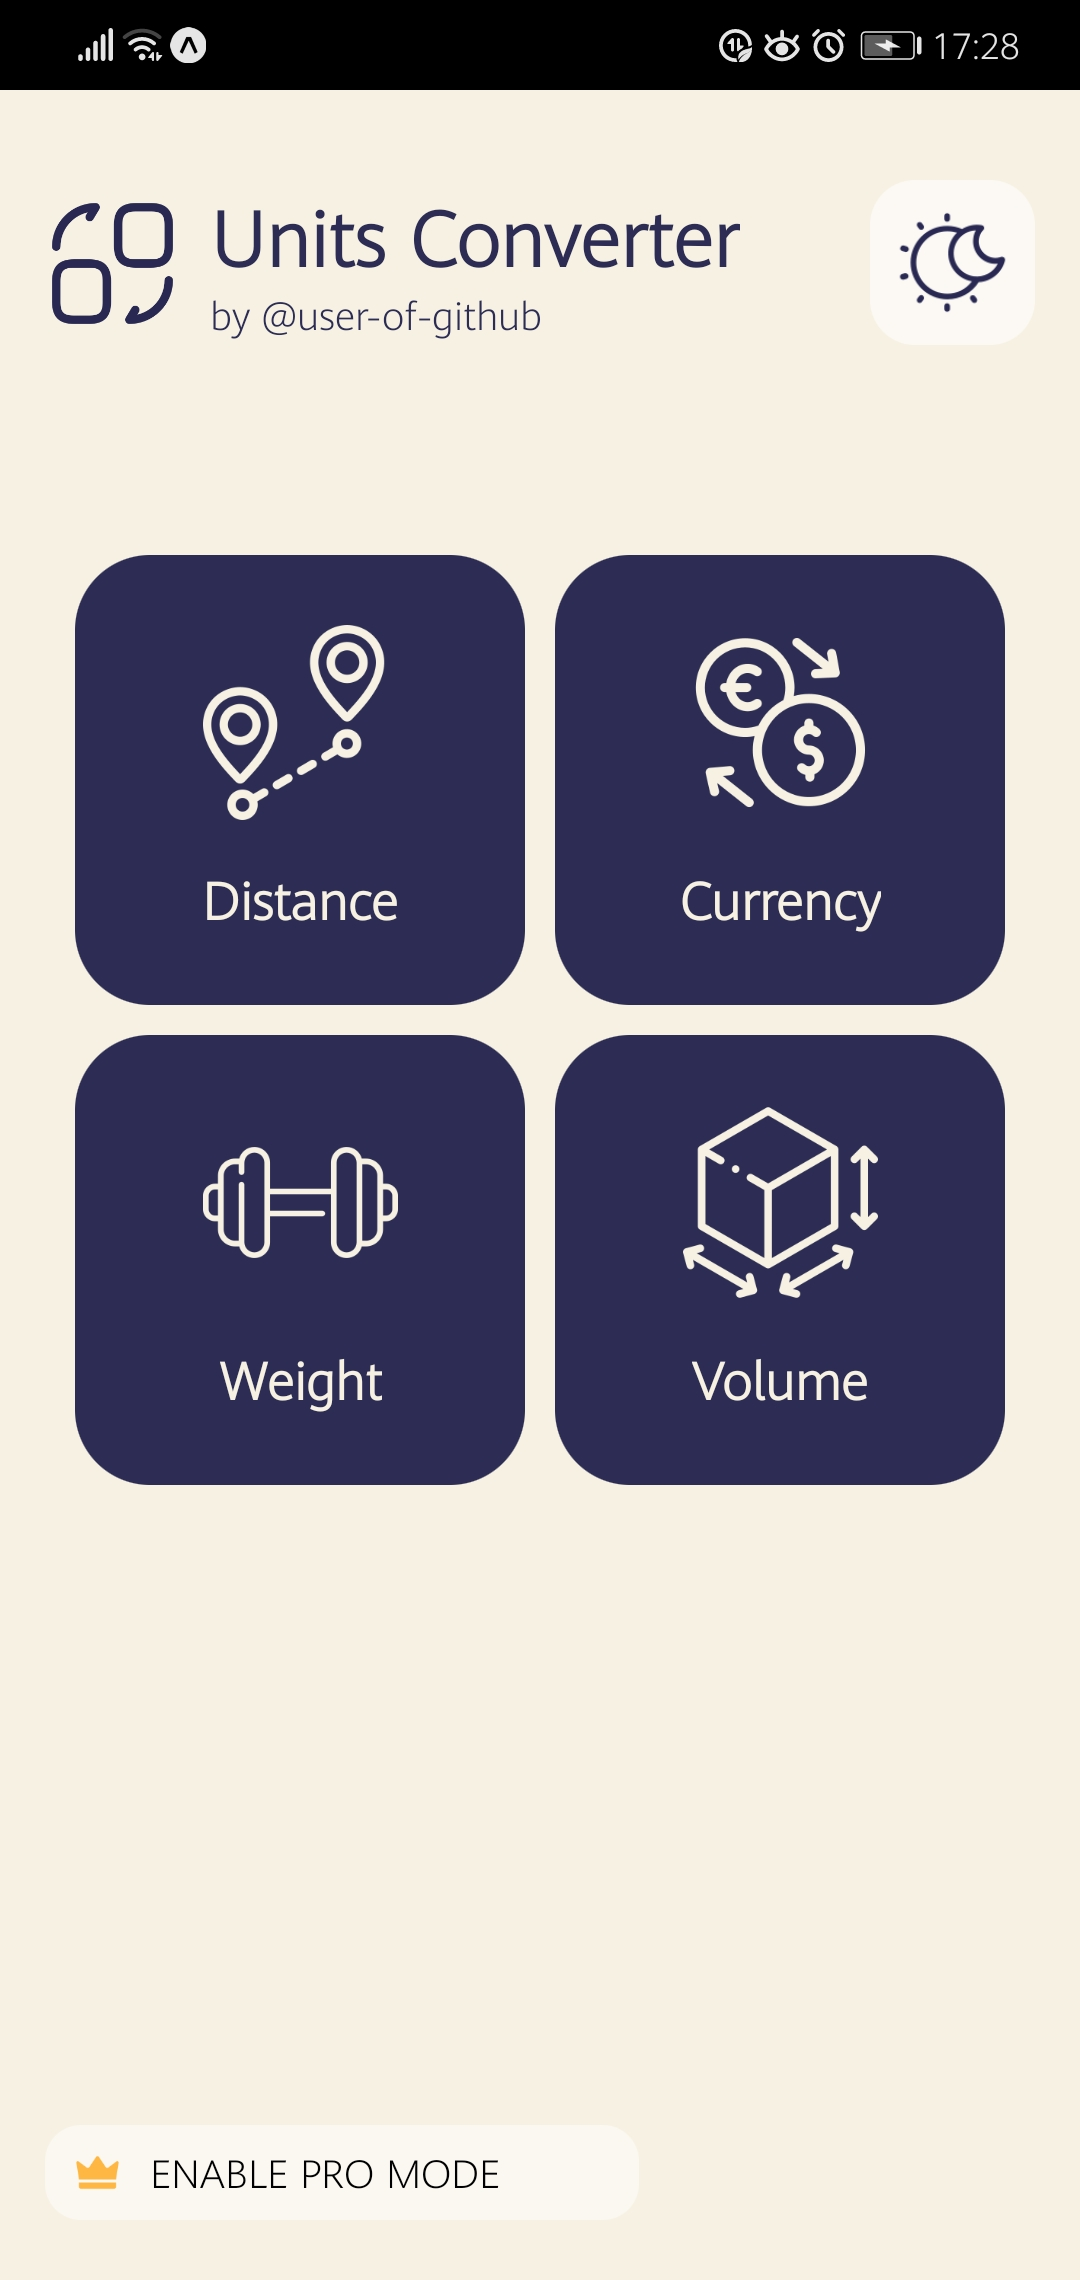
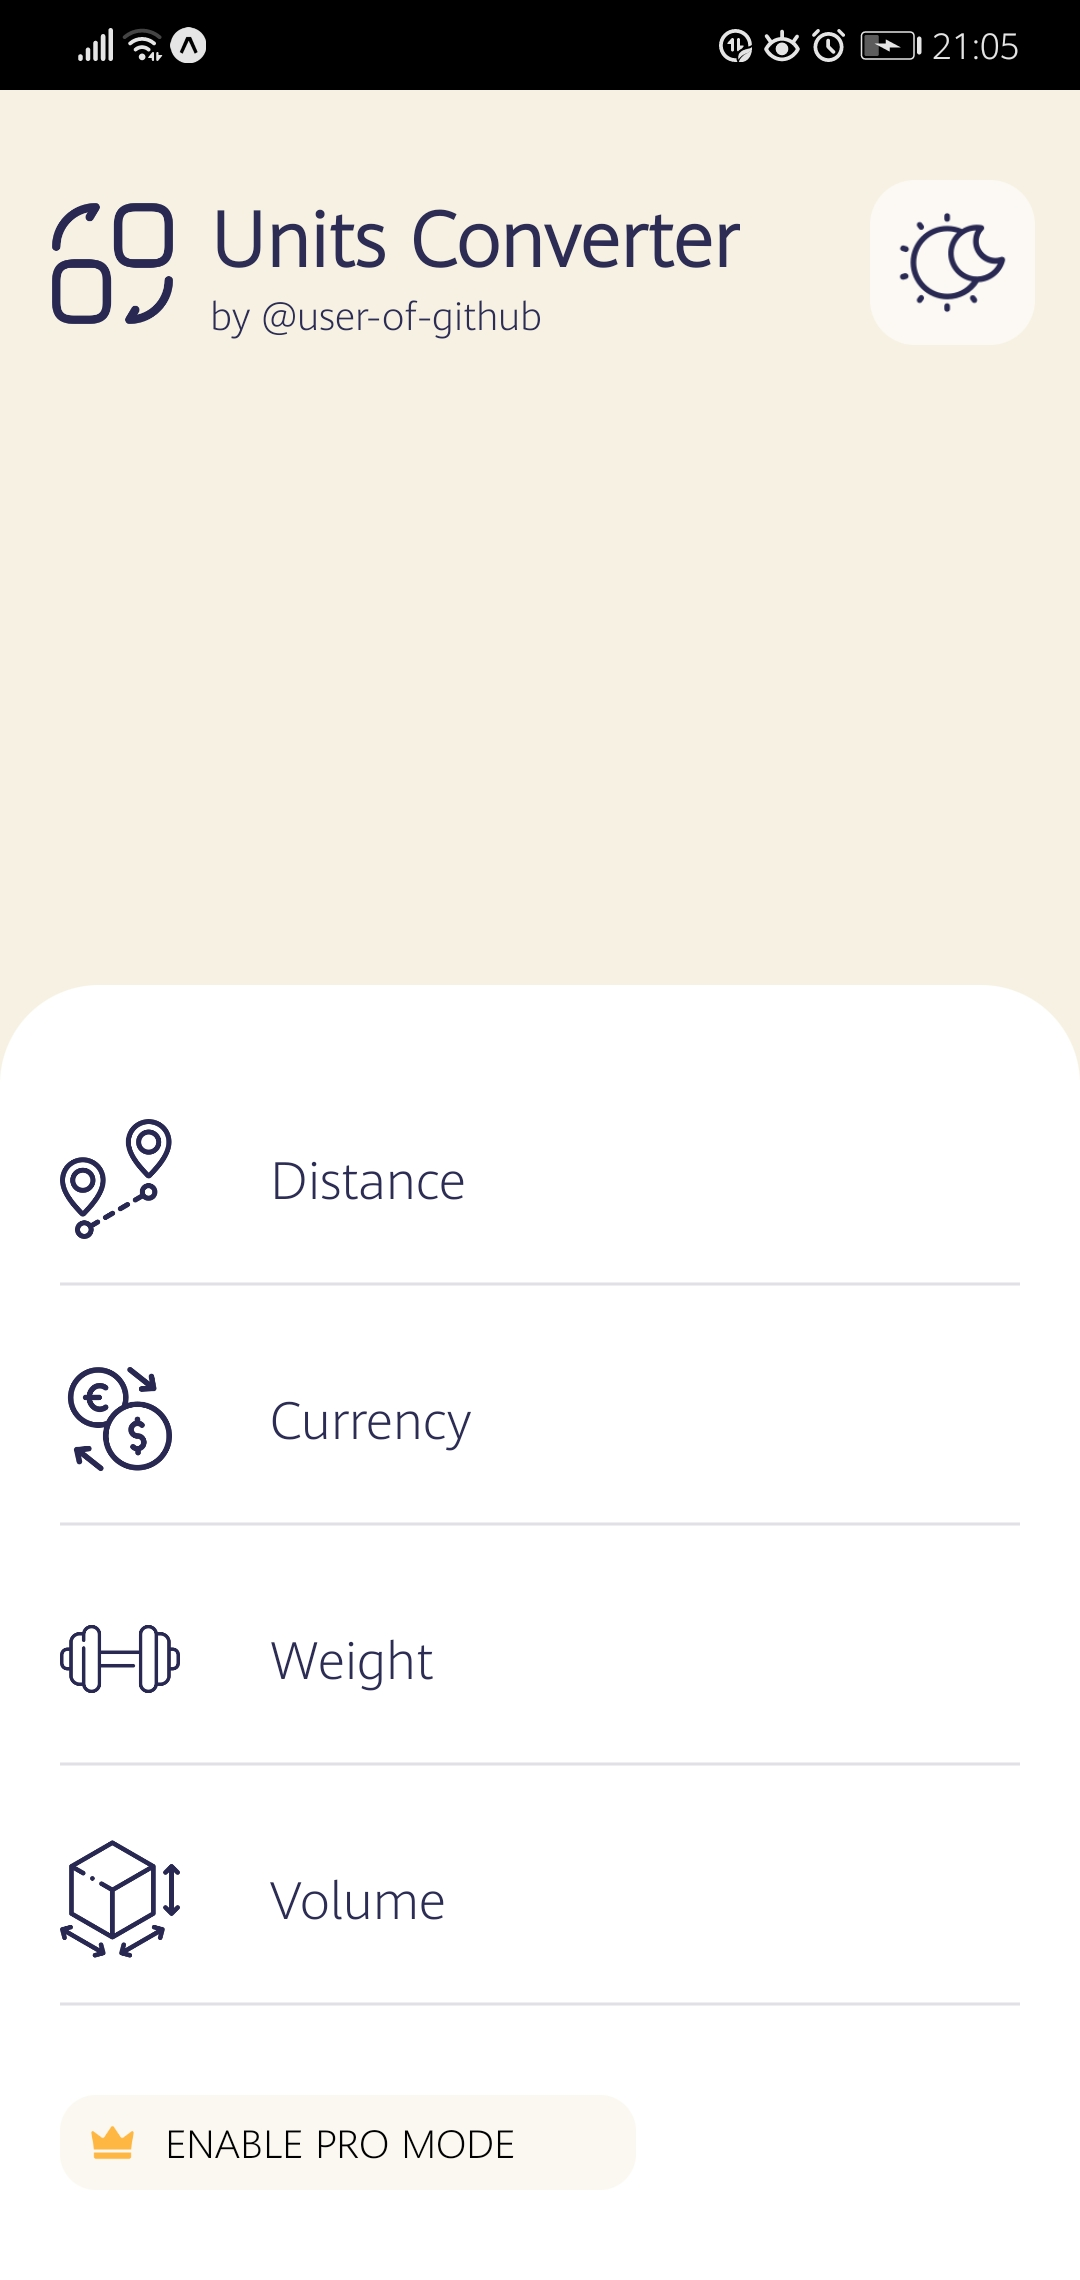
feat: redesign

diff --git a/LR1/Converter/components/menuList/MenuList.tsx b/LR1/Converter/components/menuList/MenuList.tsx
@@ -1,5 +1,5 @@
 import React from 'react'
-import {View} from 'react-native'
+import {FlatList, ListRenderItem, View} from 'react-native'
 
 import {stylesBase} from './styles'
 import {Theme} from '../../types/Theme'
@@ -14,40 +14,48 @@ import WeightLight from '../../assets/weight-light.png'
 import WeightDark from '../../assets/weight-dark.png'
 import VolumeLight from '../../assets/volume-light.png'
 import VolumeDark from '../../assets/volume-dark.png'
+import {PremiumToggler} from '../premiumToggler/PremiumToggler'
 
 
 const MENU_DATA: Array<MenuItem> = [
-    {imageForLight: DistanceLight, imageForDark: DistanceDark, title: 'Distance', screenName: 'DistanceConverter'},
-    {imageForLight: CurrencyLight, imageForDark: CurrencyDark, title: 'Currency', screenName: 'CurrencyConverter'},
-    {imageForLight: WeightLight, imageForDark: WeightDark, title: 'Weight', screenName: 'WeightConverter'},
-    {imageForLight: VolumeLight, imageForDark: VolumeDark, title: 'Volume', screenName: 'VolumeConverter'}
+    {imageForLight: DistanceDark, imageForDark: DistanceLight, title: 'Distance', screenName: 'DistanceConverter'},
+    {imageForLight: CurrencyDark, imageForDark: CurrencyLight, title: 'Currency', screenName: 'CurrencyConverter'},
+    {imageForLight: WeightDark, imageForDark: WeightLight, title: 'Weight', screenName: 'WeightConverter'},
+    {imageForLight: VolumeDark, imageForDark: VolumeLight, title: 'Volume', screenName: 'VolumeConverter'}
 ]
 
 interface MenuListProps {
     theme: Theme
     orientation: Orientation
+    premium: boolean
+    togglePremium: () => void
 }
 
 
 export const MenuList = (props: MenuListProps): JSX.Element => {
-    const containerStyles = [
-        stylesBase.menuContainer,
-        props.orientation === 'portrait' ? stylesBase.menuContainerPortrait : stylesBase.menuContainerLandscape
-    ]
+    const containerStyles = [stylesBase.menuContainer, props.theme === Theme.LIGHT ? stylesBase.menuContainerLight  : stylesBase.menuContainerDark]
+
+    const renderItem: ListRenderItem<MenuItem> = ({ item }) => (
+        <MenuItem theme={props.theme}
+                  menuItem={item}
+                  key={`${item.title}${item.screenName}`}
+                  orientation={props.orientation}
+        />
+    );
 
     return (
         <View style={containerStyles}>
-            <View style={stylesBase.itemsContainer}>
-                {
-                    MENU_DATA.map((menuItem: MenuItem): JSX.Element => (
-                        <MenuItem theme={props.theme}
-                                  menuItem={menuItem}
-                                  key={`${menuItem.title}${menuItem.screenName}`}
-                                  orientation={props.orientation}
-                        />
-                    ))
-                }
-            </View>
+                <FlatList
+                    style={stylesBase.itemsContainer}
+                    data={MENU_DATA}
+                    renderItem={renderItem}
+                    keyExtractor={menuItem => menuItem.title}
+                />
+
+            <PremiumToggler premium={props.premium}
+                            togglePremium={props.togglePremium}
+                            orientation={props.orientation}
+            />
         </View>
     )
 }

diff --git a/LR1/Converter/components/formConverter/FormConverter.tsx b/LR1/Converter/components/formConverter/FormConverter.tsx
@@ -9,6 +9,7 @@ import {FormGroup} from './formGroup/FormGroup'
 
 import Swap from '../../assets/swap.png'
 import {Orientation} from '../../types/Orientation'
+import {createAlert} from '../../utils/createAlert'
 
 
 export interface ConverterRules {
@@ -60,7 +61,11 @@ export const FormConverter = (props: FormConverterProps): JSX.Element => {
 
         if (totalLength < MAX_TOTAL_LENGTH && dotsCount <= 1) {
             const dotIndex: number = newValue.indexOf('.')
-            if (totalLength === MAX_TOTAL_LENGTH) return dotIndex !== newValue.length - 1
+
+            if (totalLength === MAX_TOTAL_LENGTH && dotIndex > 0) {
+                console.log(dotIndex,totalLength - 1, dotIndex !== totalLength - 1)
+                return dotIndex !== newValue.length - 1
+            }
             return true
         }
         else {
@@ -71,8 +76,9 @@ export const FormConverter = (props: FormConverterProps): JSX.Element => {
     const updateValues = (): void => {
         if (currentValue !== '' && currentValue !== '.') {
             const value2raw: number = Number.parseFloat(currentValue) * ratioTo2
-            setValue2(value2raw.toString())
-            actualValue2.current = value2raw.toString()
+            const value2new: number = value2raw < 0.0001 ? 0 : value2raw
+            setValue2(value2new !== 0 ? value2raw.toFixed(4) : '0')
+            actualValue2.current = value2new !== 0 ? value2raw.toFixed(4) : '0'
         } else {
             setValue2('')
             actualValue2.current = ''
@@ -80,7 +86,7 @@ export const FormConverter = (props: FormConverterProps): JSX.Element => {
     }
 
     const keyboardButtonClickHandler = (item): void => {
-        console.log('KEK')
+        //console.log('KEK')
         if (item.type === KeyboardButtonItemType.DIGIT)
             setCurrentValue(value => checkValue(value + item.text) ? value + item.text : value)
         else if (item.type === KeyboardButtonItemType.DOT)
@@ -105,6 +111,8 @@ export const FormConverter = (props: FormConverterProps): JSX.Element => {
         //console.log(value)
         if (!Number.isNaN(Number.parseFloat(value)) && checkValue(value)) {
             setCurrentValue(current => value)
+        } else {
+            createAlert('Invalid value :(')
         }
     }
 

diff --git a/LR1/Converter/components/menuList/menuItem/styles.ts b/LR1/Converter/components/menuList/menuItem/styles.ts
@@ -5,45 +5,42 @@ import {DARK_COLOR, LIGHT_COLOR} from '../../../utils/styleConstants'
 export const stylesBase = StyleSheet.create({
     selectItem: {
         display: 'flex',
-        flexDirection: 'column',
+        flexDirection: 'row',
         alignItems: 'center',
-        justifyContent: 'center',
         textAlign: 'center',
-        padding: 10,
-        borderRadius: 25,
         marginBottom: 10,
-        position: 'relative'
+        position: 'relative',
+        borderBottomStyle: 'solid',
+        borderBottomWidth: 1,
+        width: '100%',
+        // borderColor: 'black',
+        // borderStyle: 'solid',
+        // borderWidth: 1,
+        height: 70
     },
-
-    selectItemPortrait: {
-        width: 150,
-        height: 150,
-    },
-
     selectItemLandscape: {
-        width: 120,
-        height: 120,
+        height: 60,
     },
 
     selectItemIcon: {
-        width: '50%',
-        height: '50%',
+        width: 40,
+        height: 40,
     },
 
     selectItemTitle: {
         fontSize: 20,
-        marginTop: 15,
-        fontWeight: '900'
+        fontWeight: '100',
+        marginLeft: 30
     },
 })
 
 
 export const stylesLightTheme = StyleSheet.create({
-    selectItem: {backgroundColor: DARK_COLOR},
-    selectItemTitle: {color: LIGHT_COLOR}
+    selectItem: {backgroundColor: 'transparent', borderBottomColor: 'rgba(44, 44, 84, 0.15)'},
+    selectItemTitle: {color: DARK_COLOR}
 })
 
 export const stylesDarkTheme = StyleSheet.create({
-    selectItem: {backgroundColor: LIGHT_COLOR},
-    selectItemTitle: {color: DARK_COLOR}
+    selectItem: {backgroundColor: 'transparent', borderBottomColor: 'rgba(247, 241, 227, 0.5)'},
+    selectItemTitle: {color: LIGHT_COLOR}
 })

diff --git a/LR1/Converter/components/menuList/menuItem/MenuItem.tsx b/LR1/Converter/components/menuList/menuItem/MenuItem.tsx
@@ -23,8 +23,8 @@ interface MenuItemProps {
 export const MenuItem = ({theme, menuItem, orientation}: MenuItemProps): JSX.Element => {
     const buttonContainerStyle = [
         stylesBase.selectItem,
-        orientation === 'portrait' ? stylesBase.selectItemPortrait : stylesBase.selectItemLandscape,
-        theme === Theme.LIGHT ? stylesLightTheme.selectItem : stylesDarkTheme.selectItem
+        theme === Theme.LIGHT ? stylesLightTheme.selectItem : stylesDarkTheme.selectItem,
+        orientation === 'landscape' && stylesBase.selectItemLandscape
     ]
 
     const buttonIcon = (menuItem: MenuItem) => theme === Theme.LIGHT ? menuItem.imageForLight : menuItem.imageForDark
@@ -38,9 +38,9 @@ export const MenuItem = ({theme, menuItem, orientation}: MenuItemProps): JSX.Ele
     return (
         <TouchableOpacity style={buttonContainerStyle}
                           key={menuItem.title}
-                          activeOpacity={0.7}
+                          activeOpacity={0.2}
                           onPress={() => {
-                              Vibration.vibrate(40)
+                              Vibration.vibrate(20)
                               navigation.navigate(menuItem.screenName as never)
                           }}
         >

diff --git a/LR1/Converter/components/menuList/styles.ts b/LR1/Converter/components/menuList/styles.ts
@@ -5,24 +5,30 @@ export const stylesBase = StyleSheet.create({
     menuContainer: {
         display: 'flex',
         width: '100%',
-        justifyContent: 'center',
-        alignItems: 'center',
-        /*borderColor: 'black',
-        borderStyle: 'solid',
-        borderWidth: 1,*/
+        justifyContent: 'space-between',
+        // borderColor: 'black',
+        // borderStyle: 'solid',
+        // borderWidth: 1,
+        borderTopLeftRadius: 33,
+        borderTopRightRadius: 33,
+        paddingHorizontal: 20,
+        paddingBottom: 30
     },
-    menuContainerPortrait: {
-        paddingTop: 50,
+    menuContainerLight: {
+        backgroundColor: 'white'
     },
-    menuContainerLandscape: {
-      paddingTop: 10
+    menuContainerDark: {
+        backgroundColor: 'rgba(0, 0, 0, 0.5)'
     },
     itemsContainer: {
         display: 'flex',
-        flexDirection: 'row',
-        flexWrap: 'wrap',
-        justifyContent: 'space-evenly',
-        width: '100%'
+        flexDirection: 'column',
+        width: '100%',
+        // borderColor: 'black',
+        // borderStyle: 'solid',
+        // borderWidth: 1,
+        marginBottom: 20,
+        paddingTop: 30
     }
 })
 

diff --git a/LR1/Converter/components/formConverter/formGroup/FormGroup.tsx b/LR1/Converter/components/formConverter/formGroup/FormGroup.tsx
@@ -7,6 +7,7 @@ import {Theme} from '../../../types/Theme'
 
 import CopyForLight from '../../../assets/copy-dark.png'
 import CopyForDark from '../../../assets/copy-light.png'
+import {createAlert} from '../../../utils/createAlert'
 
 
 interface FormGroupProps {
@@ -25,17 +26,16 @@ const areEqual = (prevProps: FormGroupProps, nextProps: FormGroupProps): boolean
 
 
 export const FormGroup = React.memo((props: FormGroupProps): JSX.Element => {
-    const createAlert = (): void => Alert.alert('', 'Value copied to clipboard')
     const labelStyles = [stylesBase.label, props.theme === Theme.LIGHT ? stylesLight.label : stylesDark.label]
 
     const copyButtonClickHandler = (): void => {
         Vibration.vibrate(40)
 
-        props.value !== '' && Clipboard.setStringAsync(props.value) && createAlert()
+        props.value !== '' && Clipboard.setStringAsync(props.value) && createAlert('Value copied to clipboard')
     }
 
     const longPressHandler = (): void => {
-        Vibration.vibrate(70)
+        Vibration.vibrate(50)
 
         props.pasteHandler && props.pasteHandler()
     }

diff --git a/LR1/Converter/App.tsx b/LR1/Converter/App.tsx
@@ -67,17 +67,17 @@ const stylesBase = StyleSheet.create({
         width: '100%',
         height: '100%',
         display: 'flex',
-        flexDirection: 'column'
+        flexDirection: 'column',
+        justifyContent: 'space-between',
+        // borderColor: 'red',
+        // borderStyle: 'solid',
+        // borderWidth: 10,
     },
     containerPortrait: {
-        paddingHorizontal: 15,
         paddingTop: 30,
-        paddingBottom: 20,
     },
     containerLandscape: {
-        paddingHorizontal: 20,
         paddingTop: 20,
-        paddingBottom: 10,
     }
 })
 

diff --git a/LR1/Converter/screens/homeScreen/HomeScreen.tsx b/LR1/Converter/screens/homeScreen/HomeScreen.tsx
@@ -19,10 +19,6 @@ interface HomeScreenProps {
 
 export const HomeScreen = (props: HomeScreenProps): JSX.Element => (
     <View style={stylesBase.wrapper}>
-        <MenuList theme={props.theme} orientation={props.orientation}/>
-        <PremiumToggler premium={props.premium}
-                        togglePremium={props.togglePremium}
-                        orientation={props.orientation}
-        />
+        <MenuList theme={props.theme} orientation={props.orientation} premium={props.premium} togglePremium={props.togglePremium}/>
     </View>
 )

diff --git a/LR1/Converter/screens/volumeConverterScreen/VolumeConverterScreen.tsx b/LR1/Converter/screens/volumeConverterScreen/VolumeConverterScreen.tsx
@@ -5,7 +5,7 @@ import {ScreenProps} from '../../types/ScreenProps'
 
 
 export const VolumeConverterScreen = (props: ScreenProps): JSX.Element => {
-    const converterRules: ConverterRules = {title1: 'Liter', title2: 'Barrel', ratioTo2: 163.65, ratioTo1: 1 / 163.65}
+    const converterRules: ConverterRules = {title1: 'Gallon', title2: 'Liter', ratioTo2: 3.78541, ratioTo1: 0.264172}
 
     return (
         <FormConverter theme={props.theme}

diff --git a/LR1/Converter/screens/homeScreen/styles.ts b/LR1/Converter/screens/homeScreen/styles.ts
@@ -3,10 +3,13 @@ import {StyleSheet} from 'react-native'
 
 export const stylesBase = StyleSheet.create({
     wrapper: {
-        height: '100%',
+        marginTop: 'auto',
         display: 'flex',
         flexDirection: 'column',
-        justifyContent: 'space-between'
+        justifyContent: 'space-between',
+        // borderColor: 'black',
+        // borderStyle: 'solid',
+        // borderWidth: 1,
     }
 })
 

diff --git a/LR1/Converter/components/premiumToggler/styles.ts b/LR1/Converter/components/premiumToggler/styles.ts
@@ -12,7 +12,8 @@ export const stylesBase = StyleSheet.create({
         // borderWidth: 2,
         // borderStyle: 'solid',
         borderRadius: 12,
-        backgroundColor: 'rgba(255, 255, 255, 0.5)'
+
+        backgroundColor: 'rgba(247, 241, 227, 0.5)'
     },
 
     premiumButtonPortrait: {

diff --git a/LR1/Converter/components/header/styles.ts b/LR1/Converter/components/header/styles.ts
@@ -6,6 +6,7 @@ export const stylesBase = StyleSheet.create({
     container: {
         width: '100%',
         display: 'flex',
+        paddingHorizontal: 15,
         flexDirection: 'row',
         alignItems: 'center',
         justifyContent: 'space-between',
